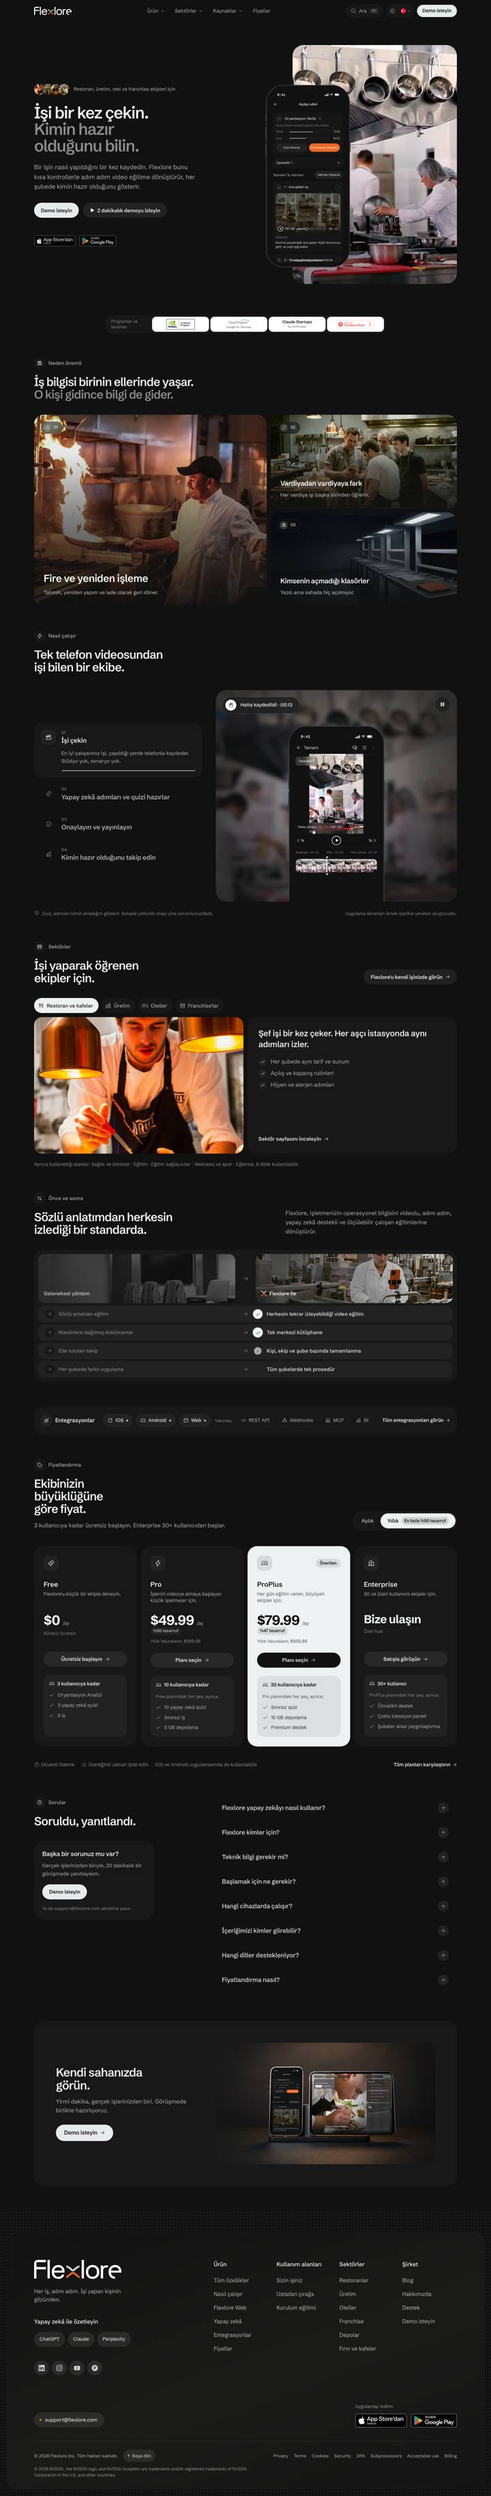
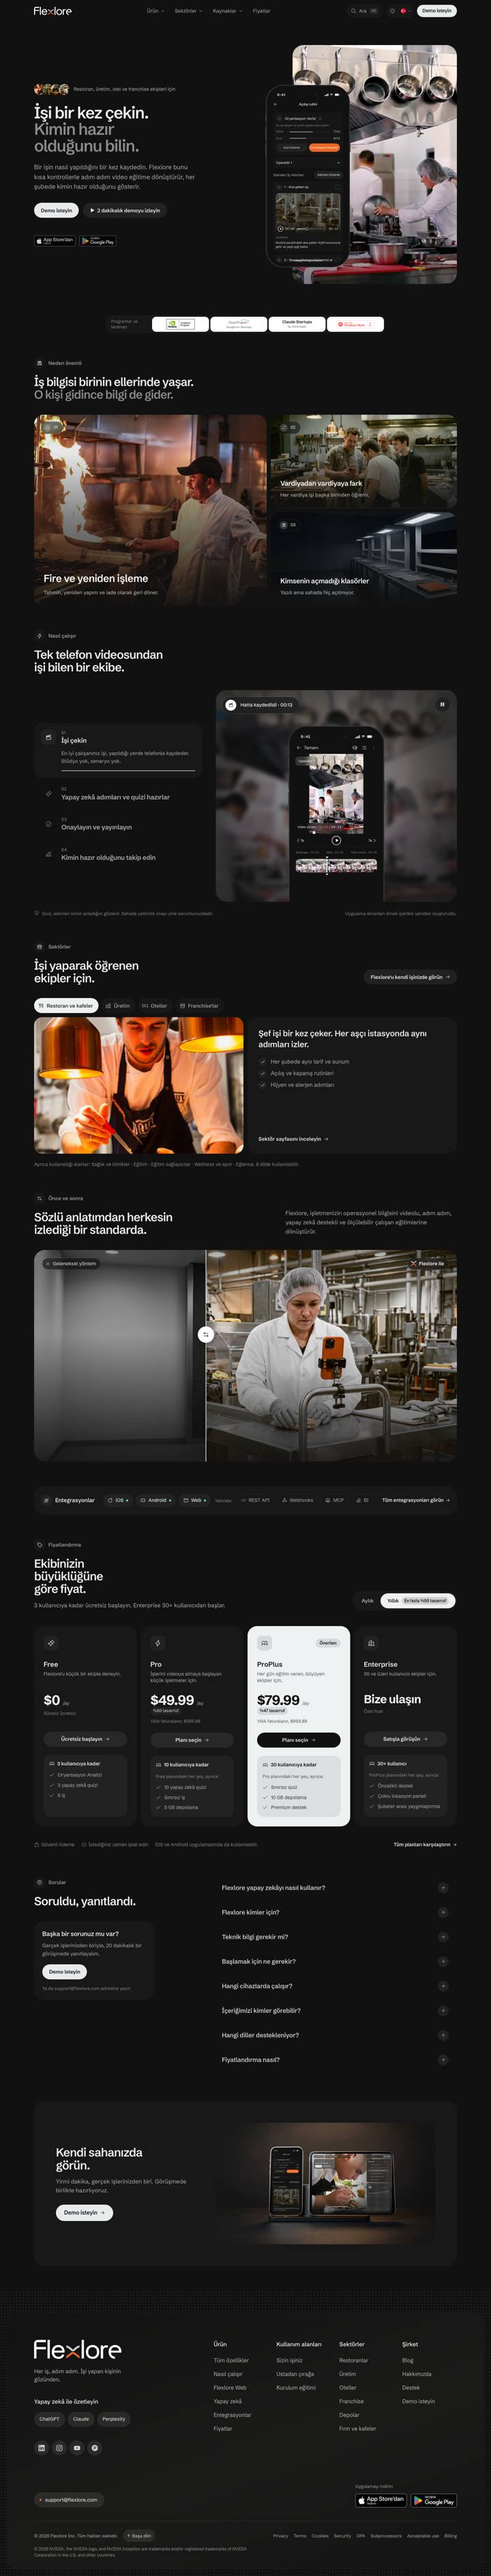
Before and after: one drag-to-compare frame
Replaces the two header photos and the row list with a single frame: the
usual way (greyscale training room) over Flexlore (filming at the station),
split by a handle. The handle sweeps across once when the frame comes into
view, then follows pointer, touch or arrow keys (native range input, visible
focus ring). A glass card lists the side that covers more of the frame;
screen readers get both columns as one list. Reduced motion: no sweep, the
Flexlore side shows. Also used on /features/ (six rows there).

diff --git a/components/home/home5b.tsx b/components/home/home5b.tsx
@@ -22,12 +22,28 @@ import {
 } from "../ui/icons";
 
 
-/* ---------- Before and after: the usual way vs Flexlore, row by row. `short` keeps four rows (home). ---------- */
+/* ---------- Before and after: one frame, a handle to drag between the usual way and Flexlore ----------
+ * The usual way (an empty training room, greyscale) lies over Flexlore (filming at the station, in colour) and is
+ * clipped at the handle. When the frame first comes into view the handle sweeps across once; after that the visitor
+ * drags it (pointer, touch or arrow keys through a native range input). The glass card lists the side that covers
+ * more of the frame. Reduced motion: no sweep, the Flexlore side shows. `short` keeps four rows (home). */
 export function Compare5({ short = false }: { short?: boolean }) {
-  const { locale } = useLocale(); const c = COMPARE5[locale]; const ref = useRef<HTMLDivElement>(null); const reduce = useReducedMotion();
-  const go = useInView(ref, { amount: 0.25, once: true }) || !!reduce;
-  // Home: rows the "How it works" steps do not already say (word of mouth, scattered files, tracking by hand, branches).
+  const { locale } = useLocale(); const c = COMPARE5[locale]; const reduce = useReducedMotion();
+  const ref = useRef<HTMLDivElement>(null); const seen = useInView(ref, { amount: 0.5, once: true });
   const rows = short ? [0, 1, 4, 5].map((i) => c.rows[i]) : c.rows;
+  const [pos, setPos] = useState(88); const [touched, setTouched] = useState(false); const raf = useRef(0);
+  useEffect(() => {
+    if (!seen || touched) return;
+    if (reduce) { setPos(12); return; }
+    const from = 88, to = 12, dur = 1800; let t0 = 0;
+    const ease = (t: number) => 1 - Math.pow(1 - t, 3);
+    const tick = (t: number) => { if (!t0) t0 = t; const k = Math.min(1, (t - t0) / dur); setPos(from + (to - from) * ease(k)); if (k < 1) raf.current = requestAnimationFrame(tick); };
+    const start = window.setTimeout(() => { raf.current = requestAnimationFrame(tick); }, 400);
+    return () => { window.clearTimeout(start); cancelAnimationFrame(raf.current); };
+  }, [seen, touched, reduce]);
+  const old = pos > 50; const rtl = locale === "ar";
+  // Physical clip: the usual way always sits on the left of the handle (also in Arabic, where the arrow keys follow the input).
+  const clip = { clipPath: `inset(0 ${100 - pos}% 0 0)` };
   return (
     <section aria-labelledby="cmp5-h" className="section-y pt-0">
       <div className="container-x">
@@ -35,30 +51,44 @@ export function Compare5({ short = false }: { short?: boolean }) {
           <div className="col-span-12 lg:col-span-7"><Label icon={ArrowsLeftRight}>{c.k}</Label><H2 id="cmp5-h" className="max-w-[20ch]">{c.h}</H2></div>
           <p className="col-span-12 max-w-[34rem] text-[16px] leading-[1.6] text-ink-muted md:text-[17px] lg:col-span-5">{c.lead}</p>
         </div>
-        <div ref={ref} className={`${card} mt-8 p-2 md:mt-10 md:p-3 ${go ? "bx-go" : ""}`}>
-          {/* Column heads as pictures: the usual way (an empty training room) and Flexlore (filming at the station). */}
-          <div className="grid grid-cols-2 gap-2 md:grid-cols-[1fr_44px_1fr]">
-            <div className="dark relative h-16 overflow-hidden rounded-[20px] md:h-36">
-              <picture><source srcSet="/blog/5Gqy3sTtza69mfyNDeoj3TAXg-800.avif" type="image/avif" /><img src="/blog/5Gqy3sTtza69mfyNDeoj3TAXg-800.webp" alt="" loading="lazy" className="h-full w-full object-cover opacity-60 grayscale" /></picture>
-              <span className="absolute inset-0 bg-[linear-gradient(90deg,rgb(17_17_17/0.75),rgb(17_17_17/0.1))]" />
-              <span className="absolute bottom-3 start-3 text-[14px] font-medium text-white/80 md:bottom-4 md:start-4 md:text-[15px]">{c.old}</span>
-            </div>
-            <span aria-hidden="true" className="hidden place-items-center md:grid"><ArrowRight size={18} className="text-ink-faint rtl:-scale-x-100" /></span>
-            <div className="dark relative h-16 overflow-hidden rounded-[20px] md:h-36">
-              <Pic n="food-qa" sizes="50vw" className="h-full w-full object-cover" />
-              <span className="absolute inset-0 bg-[linear-gradient(90deg,rgb(17_17_17/0.7),rgb(17_17_17/0.05))]" />
-              <span className="absolute bottom-3 start-3 flex items-center gap-2 text-[14px] font-semibold text-white md:bottom-4 md:start-4 md:text-[15px]"><img src="/brand/symbol-main.svg" alt="" className="h-4 w-4" />{c.now}</span>
-            </div>
+        <div ref={ref} dir="ltr" className="dark relative mt-8 aspect-[4/5] select-none outline-offset-4 has-[input:focus-visible]:outline has-[input:focus-visible]:outline-2 has-[input:focus-visible]:outline-ink overflow-hidden rounded-[28px] bg-[#141414] text-white sm:aspect-[16/10] md:mt-10 lg:aspect-[16/8] lg:rounded-[32px]">
+          {/* Flexlore, underneath */}
+          <div aria-hidden="true" className="absolute inset-0">
+            <Pic n="food-qa" sizes="(min-width:1024px) 80vw, 100vw" className="absolute inset-0 h-full w-full object-cover" />
+            <span className="absolute inset-0 bg-[linear-gradient(180deg,rgb(17_17_17/0.35)_0%,rgb(17_17_17/0)_30%,rgb(17_17_17/0.15)_55%,rgb(17_17_17/0.85)_100%)]" />
+            <span className="absolute end-4 top-4 inline-flex items-center gap-2 rounded-full bg-[rgb(17_17_17/0.6)] py-1.5 pe-3.5 ps-2 text-[13px] font-semibold ring-1 ring-white/10 backdrop-blur-md md:end-6 md:top-6 md:text-[14px]"><img src="/brand/symbol-main.svg" alt="" className="h-4 w-4" />{c.now}</span>
           </div>
-          <ul className="mt-2 space-y-1.5">
-            {rows.map(([o, n], k) => (
-              <li key={o} className="bx-rise grid items-center gap-2 rounded-[18px] bg-[var(--card-2)] px-3 py-2.5 md:grid-cols-[1fr_44px_1fr] md:gap-0 md:px-5" style={reduce ? undefined : { animationDelay: `${150 + k * 120}ms` }}>
-                <span className="flex items-center gap-3 text-[15px] text-ink-faint"><span className="grid h-7 w-7 shrink-0 place-items-center rounded-full bg-[var(--card)]"><X size={13} aria-hidden="true" /></span><span><span className="sr-only">{c.old}: </span><span className="line-through decoration-ink-faint/40">{o}</span></span></span>
-                <ArrowRight size={16} aria-hidden="true" className="hidden justify-self-center text-ink-faint md:block rtl:-scale-x-100" />
-                <span className="flex items-center gap-3 text-[15px] font-medium text-ink"><span className="bx-pop grid h-7 w-7 shrink-0 place-items-center rounded-full bg-ink text-bg" style={reduce ? undefined : { animationDelay: `${600 + k * 160}ms` }}><Check size={13} aria-hidden="true" /></span><span><span className="sr-only">{c.now}: </span>{n}</span></span>
-              </li>))}
-          </ul>
+          {/* The usual way, on top, clipped at the handle */}
+          <div aria-hidden="true" className="absolute inset-0" style={clip}>
+            <picture><source srcSet="/blog/5Gqy3sTtza69mfyNDeoj3TAXg-800.avif 800w, /blog/5Gqy3sTtza69mfyNDeoj3TAXg-1600.avif 1600w" sizes="(min-width:1024px) 80vw, 100vw" type="image/avif" />
+              <img src="/blog/5Gqy3sTtza69mfyNDeoj3TAXg-1600.webp" alt="" loading="lazy" className="absolute inset-0 h-full w-full object-cover grayscale" /></picture>
+            <span className="absolute inset-0 bg-[linear-gradient(180deg,rgb(17_17_17/0.45)_0%,rgb(17_17_17/0.25)_40%,rgb(17_17_17/0.9)_100%)]" />
+            <span className="absolute start-4 top-4 inline-flex items-center gap-2 rounded-full bg-[rgb(17_17_17/0.6)] py-1.5 pe-3.5 ps-2.5 text-[13px] font-medium text-white/80 ring-1 ring-white/10 backdrop-blur-md md:start-6 md:top-6 md:text-[14px]"><X size={13} />{c.old}</span>
+          </div>
+          {/* Handle */}
+          <div aria-hidden="true" className="pointer-events-none absolute inset-y-0 z-10 w-0" style={{ left: `${pos}%` }}>
+            <span className="absolute inset-y-0 -left-px w-[2px] bg-white/85 shadow-[0_0_24px_rgb(0_0_0/0.5)]" />
+            <span className={`absolute left-0 top-[30%] grid h-12 w-12 -translate-x-1/2 -translate-y-1/2 place-items-center rounded-full bg-white md:top-[40%] text-[#111] shadow-[0_8px_30px_rgb(0_0_0/0.45)] ${touched || reduce ? "" : "cmp-pulse"}`}><ArrowsLeftRight size={20} /></span>
+          </div>
+          {/* The list of the side that covers more of the frame */}
+          <div className="pointer-events-none absolute inset-x-3 bottom-3 z-10 md:inset-x-auto md:bottom-6 md:start-6 md:w-[25rem]" dir={rtl ? "rtl" : "ltr"}>
+            <AnimatePresence mode="wait" initial={false}>
+              <m.ul key={old ? "old" : "now"} aria-live="polite" initial={reduce ? false : { opacity: 0, y: 8 }} animate={{ opacity: 1, y: 0 }} exit={reduce ? undefined : { opacity: 0, y: -4 }} transition={{ duration: 0.25, ease: EASE }}
+                className="space-y-1 rounded-[20px] bg-[rgb(17_17_17/0.72)] p-2 ring-1 ring-white/10 backdrop-blur-md">
+                <li className="px-2.5 pb-1 pt-1 text-[12px] font-medium uppercase tracking-[.08em] text-white/55">{old ? c.old : c.now}</li>
+                {rows.map(([o, n]) => (
+                  <li key={o} className={`flex items-center gap-3 rounded-[14px] px-2.5 py-2 text-[14px] md:text-[15px] ${old ? "text-white/60" : "bg-[rgb(255_255_255/0.06)] font-medium text-white"}`}>
+                    <span className={`grid h-6 w-6 shrink-0 place-items-center rounded-full ${old ? "bg-[rgb(255_255_255/0.08)] text-white/55" : "bg-white text-[#111]"}`}>{old ? <X size={12} aria-hidden="true" /> : <Check size={12} aria-hidden="true" />}</span>
+                    {old ? o : n}</li>))}
+              </m.ul>
+            </AnimatePresence>
+          </div>
+          <input type="range" min={0} max={100} step={1} value={Math.round(pos)} aria-label={`${c.old} / ${c.now}`} aria-valuetext={old ? c.old : c.now}
+            onChange={(e) => { setTouched(true); cancelAnimationFrame(raf.current); setPos(Number(e.target.value)); }}
+            className="cmp-range absolute inset-0 z-20 h-full w-full cursor-ew-resize opacity-0 [touch-action:pan-y]" />
         </div>
+        {/* Screen readers get both columns as one plain list. */}
+        <ul className="sr-only">{rows.map(([o, n]) => <li key={o}>{c.old}: {o}. {c.now}: {n}.</li>)}</ul>
       </div>
     </section>);
 }

diff --git a/app/globals.css b/app/globals.css
@@ -307,3 +307,8 @@ html body { transition: opacity .25s ease; }
 .feat-ring { animation: featRing 2.8s ease-out infinite; }
 @keyframes featRing { 0% { transform: scale(1); opacity: .7; } 100% { transform: scale(1.45); opacity: 0; } }
 @media (prefers-reduced-motion: reduce) { .feat-glow, .feat-ring { animation: none; } .feat-ring { opacity: 0; } }
+/* Before/after handle (components/home/home5b.tsx): a soft ring until the visitor first drags. */
+.cmp-pulse { animation: cmpPulse 2.2s ease-out infinite; }
+@keyframes cmpPulse { 0% { box-shadow: 0 0 0 0 rgb(255 255 255 / 0.45), 0 8px 30px rgb(0 0 0 / 0.45); } 70%, 100% { box-shadow: 0 0 0 16px rgb(255 255 255 / 0), 0 8px 30px rgb(0 0 0 / 0.45); } }
+@media (prefers-reduced-motion: reduce) { .cmp-pulse { animation: none; } }
+
